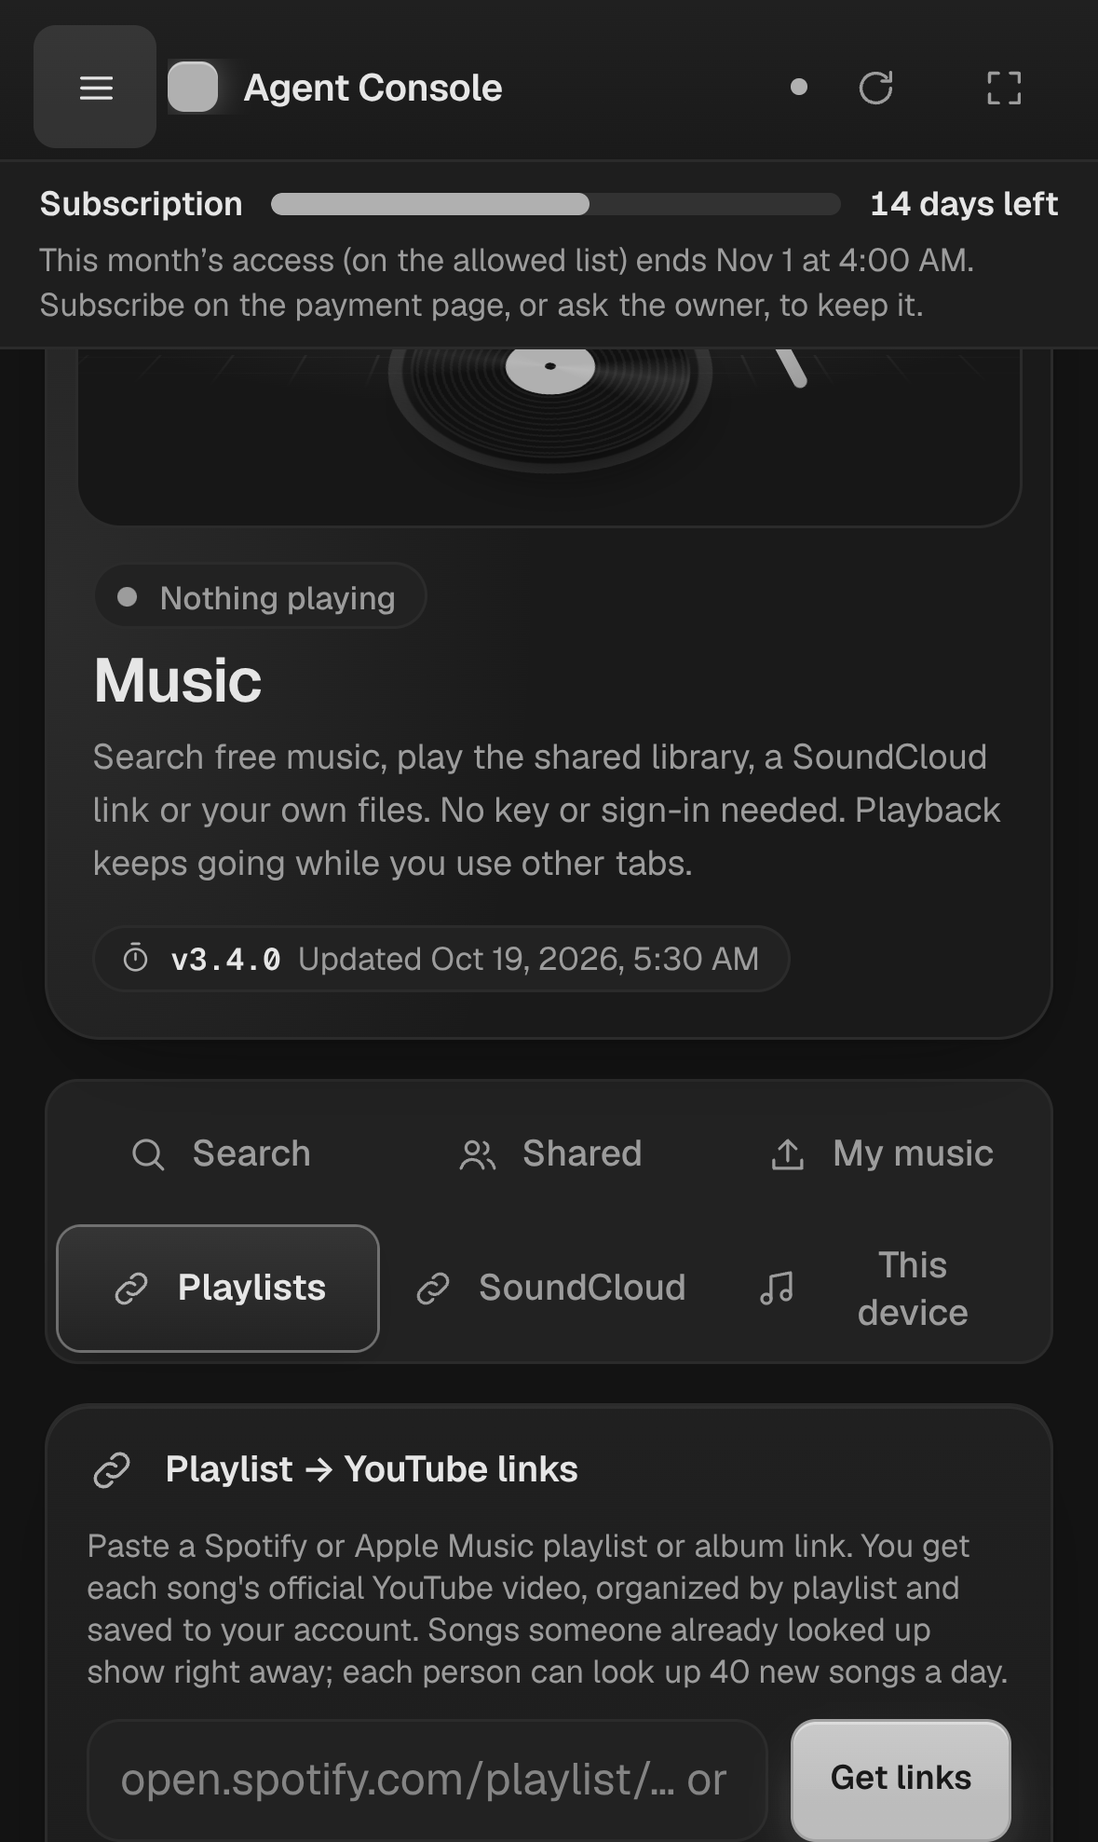
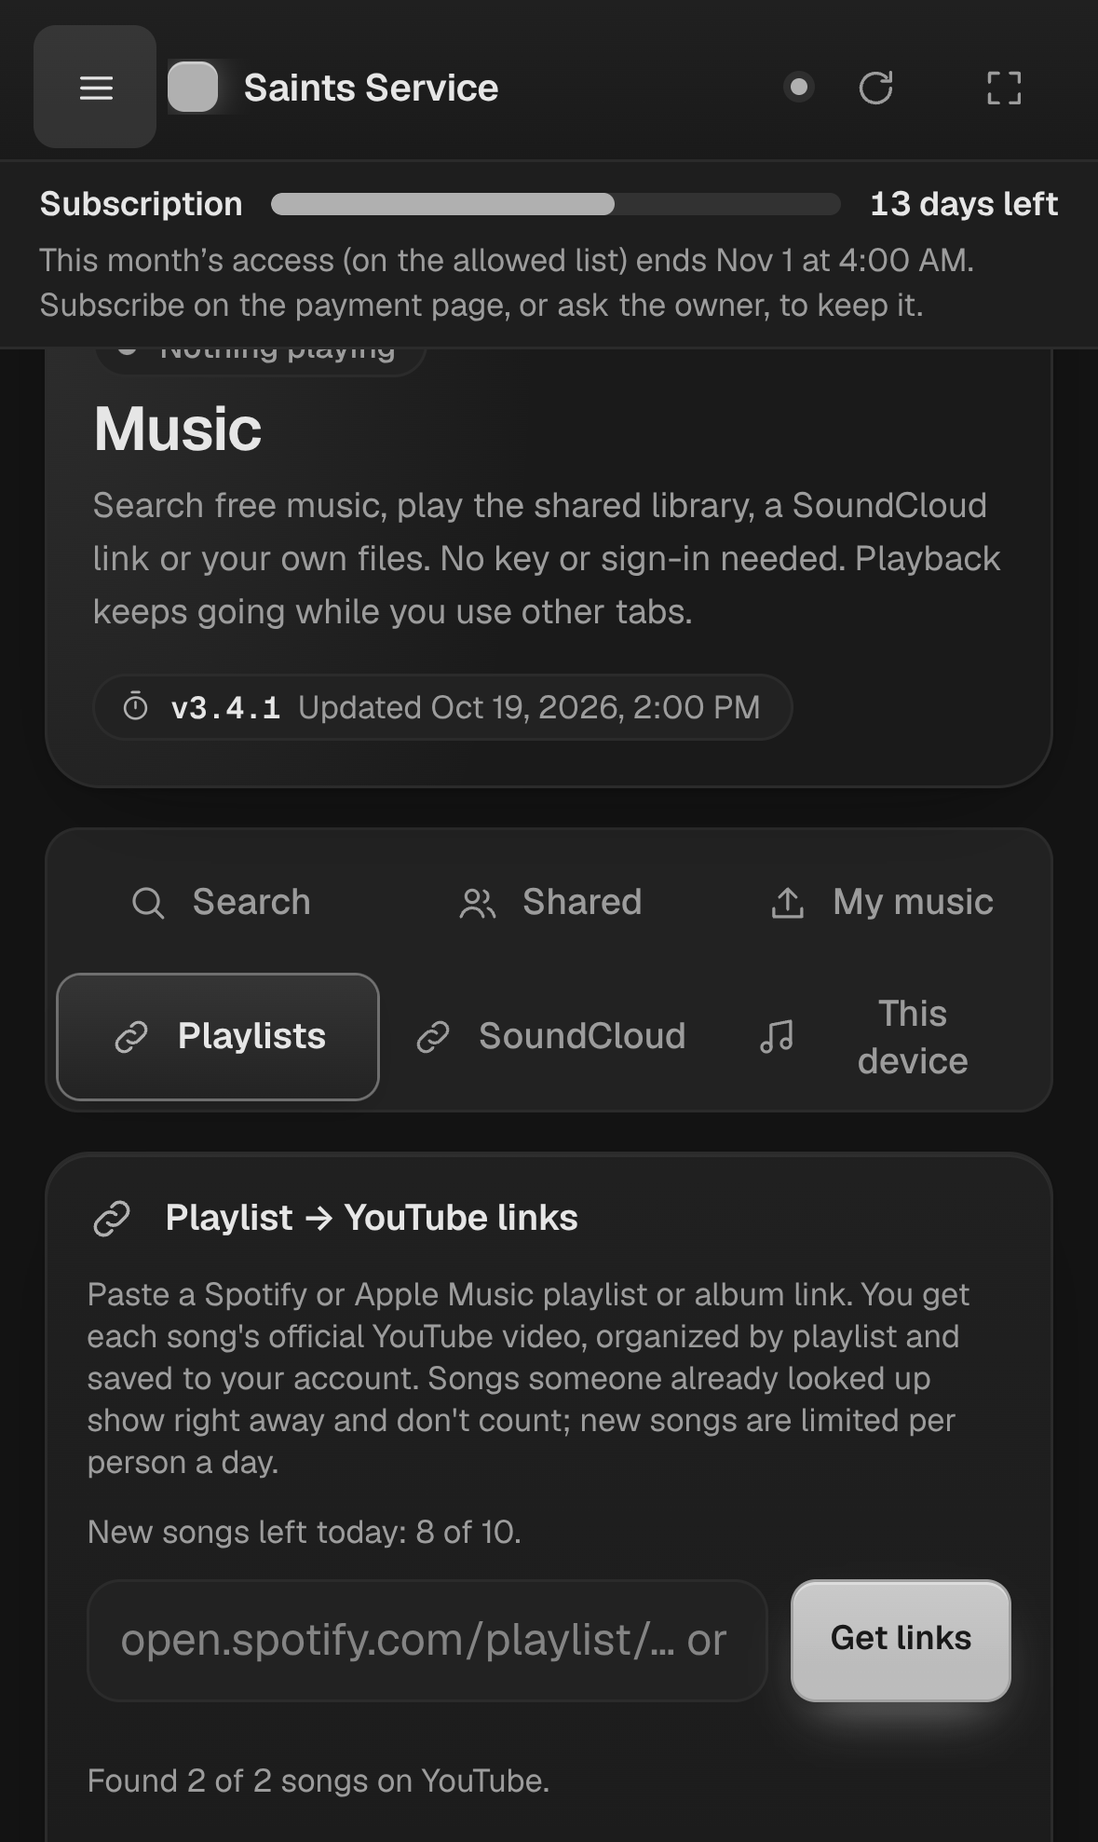
Playlists: 10 new songs a day per person (admins too), owner can change it
Everyone signed in keeps Playlists, admins included. New YouTube lookups
are limited to 10 a day per person by default (only the owner is
unlimited); songs someone already looked up stay free. The Music card
shows "New songs left today", and Admin -> Moderation -> Playlists limit
lets the owner change the number.

Claude-Session: https://claude.ai/code/session_01NctB9gYwwtoWGB2Q6rMk3L

diff --git a/script.js b/script.js
@@ -820,7 +820,10 @@ function modelSupportsReasoning(id) { return REASONING_MODELS.has((id || '').tri
     { at: '2026-10-19T08:30:00-04:00', commit: '', title: 'No way in without the server', parts: {
       console: ['fix', 'Signing in or creating an account (planet icon) is refused when the server can’t be reached, and a saved sign-in only comes back after the server checks it, so blocking the server or faking browser data can’t open the console'] } },
     { at: '2026-10-19T09:00:00-04:00', commit: '', title: 'Fold the top card', parts: {
-      console: ['feature', 'Every tab’s top card (Ask AI, Music, Chat…) has an arrow to fold it into a thin bar with just its title and buttons, so answers get the room; each tab remembers it'] } }
+      console: ['feature', 'Every tab’s top card (Ask AI, Music, Chat…) has an arrow to fold it into a thin bar with just its title and buttons, so answers get the room; each tab remembers it'] } },
+    { at: '2026-10-19T10:00:00-04:00', commit: '', title: 'Playlists: 10 new songs a day per person', parts: {
+      music: ['change', 'Playlists stay open to everyone (admins too); each person can look up 10 new songs a day (songs someone already found are free), with a “New songs left today” count'],
+      admin: ['feature', 'Moderation → Playlists limit (owner): set how many new songs each person can look up a day'] } }
   ];
   const PART_NAMES = {
     console: 'Console shell', selection: 'Selection assistant', welcome: 'Welcome', scan: 'Page Insights', ask: 'Ask AI', chat: 'Chat',
@@ -3672,7 +3675,8 @@ function modelSupportsReasoning(id) { return REASONING_MODELS.has((id || '').tri
           </section>
           <section class="gpa-card gpx-card gpx-src-panel" data-src-panel="lists">
             <div class="gpx-card-head">${GPS_ICONS.link}<div class="gpa-card-title">Playlist → YouTube links</div></div>
-            <p class="gpa-sub">Paste a Spotify or Apple Music playlist or album link. You get each song's official YouTube video, organized by playlist and saved to your account. Songs someone already looked up show right away; each person can look up 40 new songs a day.</p>
+            <p class="gpa-sub">Paste a Spotify or Apple Music playlist or album link. You get each song's official YouTube video, organized by playlist and saved to your account. Songs someone already looked up show right away and don't count; new songs are limited per person a day.</p>
+            <p id="gpa-lists-quota" class="gpa-sub gpa-lists-quota" role="status" hidden></p>
             <div class="gpa-row gpx-composer">
               <input id="gpa-lists-url" class="gpa-input" placeholder="open.spotify.com/playlist/… or music.apple.com/…" aria-label="Spotify or Apple Music playlist link" autocomplete="off" />
               <button id="gpa-lists-go" class="gpa-btn primary" type="button">Get links</button>
@@ -11318,8 +11322,14 @@ function modelSupportsReasoning(id) { return REASONING_MODELS.has((id || '').tri
   const lists = {
     btn: panel.querySelector('.gpx-src[data-src="lists"]'), url: panel.querySelector('#gpa-lists-url'), go: panel.querySelector('#gpa-lists-go'),
     status: panel.querySelector('#gpa-lists-status'), keyBox: panel.querySelector('#gpa-lists-key'), view: panel.querySelector('#gpa-lists-view'),
-    saved: panel.querySelector('#gpa-lists-saved'), player: panel.querySelector('#gpa-lists-player'), open: null, finding: false
+    saved: panel.querySelector('#gpa-lists-saved'), player: panel.querySelector('#gpa-lists-player'), quota: panel.querySelector('#gpa-lists-quota'), open: null, finding: false
   };
+  // "New songs left today: 7 of 10" (null from the Worker: no limit, the owner).
+  function showSongsLeft(songs) {
+    if (!lists.quota || songs === undefined) return;
+    lists.quota.hidden = false;
+    lists.quota.textContent = songs ? 'New songs left today: ' + songs.left + ' of ' + songs.perDay + '.' : 'No daily limit for you (owner).';
+  }
   const SERVICE_NAME = { spotify: 'Spotify', apple: 'Apple Music' };
   // Everyone signed in (owner's call), in the app or on the website.
   const listsStaff = () => !!sessionToken() || !!admGet(ADMIN_KEYS.TELE_TOKEN) || !!admGet(ADMIN_KEYS.OWNER_CODE);
@@ -11431,6 +11441,7 @@ function modelSupportsReasoning(id) { return REASONING_MODELS.has((id || '').tri
     try {
       const d = await listsCall('/music/lists');
       lists.keyBox.hidden = !!d.canFind || !d.lists.some((l) => l.pending);
+      showSongsLeft(d.songs);
       renderSaved(d.lists);
       if (!lists.open && !d.lists.length) lists.status.textContent = 'Paste a link to get started.';
     } catch (e) { lists.status.textContent = e.message; }
@@ -11441,6 +11452,7 @@ function modelSupportsReasoning(id) { return REASONING_MODELS.has((id || '').tri
     try {
       for (let guard = 0; guard < 60; guard++) {
         const d = await listsCall('/music/lists/find', { id });
+        showSongsLeft(d.songs);
         if (d.list && lists.open && lists.open.id === id) renderList(d.list);
         if (d.needKey) { lists.keyBox.hidden = false; lists.status.textContent = 'Got ' + d.list.count + ' songs. Each has a YouTube search link until the YouTube key is added on the Worker.'; break; }
         if (d.error) { lists.status.textContent = d.error; break; }
@@ -22318,6 +22330,8 @@ function modelSupportsReasoning(id) { return REASONING_MODELS.has((id || '').tri
             + `<div class="gac-allow-row"><span>🧠 Daily trivia at 12 PM (first correct answer wins a point)</span><button class="gps-switch${!d.fun || d.fun.trivia ? ' primary' : ''}" data-fun="trivia" type="button" aria-pressed="${!d.fun || d.fun.trivia}" aria-label="Daily trivia">Daily trivia</button></div>`
             + `<div class="gac-allow-row"><span>🏆 Announce new game records</span><button class="gps-switch${!d.fun || d.fun.shoutouts ? ' primary' : ''}" data-fun="shoutouts" type="button" aria-pressed="${!d.fun || d.fun.shoutouts}" aria-label="Announce new game records">Announce new game records</button></div>`
             + `<div class="gac-actions"><button class="gps-btn" id="gac-trivia-now" type="button">Ask a trivia question now</button></div>`, 'sparkle', 'gac-fun-card') : '')
+          + (can('system.manage') ? card('Playlists limit', `<p class="gps-hint">Music → Playlists is open to everyone signed in. Each new song costs a lookup on your YouTube key, so each person (admins too) gets this many new songs a day; songs someone already looked up are free. You have no limit.</p>`
+            + `<div class="gac-allow-row"><label>New songs per person a day <input id="gac-lists-songs" class="gpa-input" type="number" inputmode="numeric" min="0" max="500" step="1" value="${Number(d.listsDailySongs) >= 0 ? Number(d.listsDailySongs) : 10}" aria-label="New songs per person a day"></label><button class="gps-btn" id="gac-lists-save" type="button">Save</button></div>`, 'link', 'gac-lists-card') : '')
           + (can('security.view') ? '' : freeCard())
           + `<div id="gac-legacy-moderation"></div>`;
         b.querySelectorAll('.gac-report blockquote').forEach((q, i) => { q.textContent = list[i].msgText; });
@@ -22338,6 +22352,14 @@ function modelSupportsReasoning(id) { return REASONING_MODELS.has((id || '').tri
             sw.classList.toggle('primary', fun[sw.dataset.fun]); sw.setAttribute('aria-pressed', String(fun[sw.dataset.fun]));
             showToast((sw.dataset.fun === 'trivia' ? 'Daily trivia ' : 'Game record posts ') + (fun[sw.dataset.fun] ? 'on.' : 'off.'));
           } catch (err) { showToast(err.message, { type: 'danger' }); }
+        });
+        const listsCard = b.querySelector('#gac-lists-card');
+        if (listsCard) listsCard.querySelector('#gac-lists-save').addEventListener('click', async () => {
+          const n = Number(listsCard.querySelector('#gac-lists-songs').value);
+          try {
+            await api('/admin/config', { method: 'POST', body: { listsDailySongs: n } });
+            showToast('Playlists: ' + n + ' new song' + (n === 1 ? '' : 's') + ' per person a day.');
+          } catch (e) { showToast(e.message, { type: 'danger' }); }
         });
         const quietCard = b.querySelector('#gac-quiet-card');
         if (quietCard) {

diff --git a/worker.js b/worker.js
@@ -449,9 +449,12 @@ const adminLink = (sec, params) => appLink('admin', { sec, ...(params || {}) });
 const SUB_PERIODS = { '1w': { days: 7 }, '2w': { days: 14 }, '1m': { months: 1 }, '3m': { months: 3 }, '6m': { months: 6 }, '12m': { months: 12 } };
 const SUB_PERIOD_LABEL = { '1w': '1 week', '2w': '2 weeks', '1m': '1 month', '3m': '3 months', '6m': '6 months', '12m': '1 year' };
 const SUB_REMIND_MS = 3 * 24 * 3600 * 1000;
-// Playlists for everyone: per person a day (the owner and admins: 30 imports, no lookup cap).
+// Playlists for everyone: per person a day, 10 playlist imports (staff 30)
+// and LISTS_DAILY_SONGS new song lookups (admins included; the owner can
+// change it, config.listsDailySongs; the owner has no lookup cap).
 const LISTS_USER_IMPORTS = 10;
-const LISTS_USER_SEARCHES = 40;
+const LISTS_DAILY_SONGS = 10;
+const listsSongCap = (cfg) => (Number.isInteger(cfg && cfg.listsDailySongs) ? cfg.listsDailySongs : LISTS_DAILY_SONGS);
 // New subscribers' school email: their 6-digit student number at this domain.
 const SCHOOL_ID_RE = /^\d{6}$/;
 // Names with the admin role (for alerts that go to the owner and admins).
@@ -3413,6 +3416,12 @@ async function handleRequest(req, env, ctx, operationReserved = false) {
         for (const u of back) { const s = cfg.subscriptions && cfg.subscriptions[u]; if (s && s.auto && (s.ended || s.expiresAt <= Date.now())) delete cfg.subscriptions[u]; }
         await autoSubscribeListed(env, cfg);
       }
+      // Playlists: new song lookups per person a day (YouTube key quota).
+      if ('listsDailySongs' in body) {
+        const n = Number(body.listsDailySongs);
+        if (!Number.isInteger(n) || n < 0 || n > 500) return json({ error: 'Pick a number of songs from 0 to 500.' }, 400);
+        cfg.listsDailySongs = n;
+      }
       if ('monthlyQuota' in body) cfg.monthlyQuota = Math.max(0, parseInt(body.monthlyQuota, 10) || 0);
       if ('rpm' in body) cfg.rpm = Math.max(0, parseInt(body.rpm, 10) || 0);
       if ('requireSessions' in body) cfg.requireSessions = !!body.requireSessions;
@@ -3996,18 +4005,23 @@ async function handleRequest(req, env, ctx, operationReserved = false) {
         // The YouTube key is the Worker secret YOUTUBE_API_KEY: it never
         // leaves the Worker and is only used to look up a song nobody has
         // looked up before. Those new lookups are limited per person a day
-        // (LISTS_USER_SEARCHES) except for the owner and admins, so one
-        // person can't use up the key's daily quota for everyone.
+        // (listsSongCap, 10 unless the owner changes it), admins included;
+        // only the owner is unlimited, so nobody runs up the key's quota.
         if (url.pathname.startsWith('/music/lists')) {
           const boss = await staff();
+          const unlimited = !!boss && String(boss).toLowerCase() === OWNER;
+          const songCap = listsSongCap(cfg);
+          const sk = 'ytlists-search:' + dayKey() + ':';
           const me = String(listener || '').trim();
           const who = boss || (who0.verified && me && me.toLowerCase() !== 'anonymous' ? me : '');
           if (!who) return json({ ok: false, signIn: true, error: 'Sign in to use Playlists.' }, 401);
           if (!kv) return json({ ok: false, error: 'storage not configured' }, 503);
           const lists = await readLists(kv, who);
           const ytKey = String((env && env.YOUTUBE_API_KEY) || '').trim();
+          // New song lookups left today (null: no limit, the owner).
+          const songsInfo = async (usedNow) => (unlimited ? null : { perDay: songCap, left: Math.max(0, songCap - (usedNow !== undefined ? usedNow : (parseInt(await kv.get(sk + String(who).toLowerCase()), 10) || 0))) });
           if (url.pathname === '/music/lists' && req.method === 'GET') {
-            return json({ ok: true, lists: lists.map(listSummary), canFind: !!ytKey });
+            return json({ ok: true, lists: lists.map(listSummary), canFind: !!ytKey, songs: await songsInfo() });
           }
           if (url.pathname === '/music/lists/one' && req.method === 'GET') {
             const l = lists.find((x) => x.id === url.searchParams.get('id'));
@@ -4034,10 +4048,10 @@ async function handleRequest(req, env, ctx, operationReserved = false) {
             // (ytm:<song>) and cost no YouTube search; only new songs are
             // searched, a few per request (the app keeps asking until done).
             let error = '', quota = false, searched = 0, changed = 0, scanned = 0, needKey = false, capped = false;
-            // New lookups left today for this person (unlimited for the owner and admins).
-            const sk = 'ytlists-search:' + dayKey() + ':' + String(who).toLowerCase();
-            const used = boss ? 0 : parseInt(await kv.get(sk), 10) || 0;
-            const left = boss ? Infinity : Math.max(0, LISTS_USER_SEARCHES - used);
+            // New lookups left today for this person (no limit for the owner).
+            const sku = sk + String(who).toLowerCase();
+            const used = unlimited ? 0 : parseInt(await kv.get(sku), 10) || 0;
+            const left = unlimited ? Infinity : Math.max(0, songCap - used);
             for (const t of l.tracks) {
               if (searched >= MATCH_BATCH || scanned >= MATCH_SCAN) break;
               if (t.m !== undefined) continue;
@@ -4054,17 +4068,18 @@ async function handleRequest(req, env, ctx, operationReserved = false) {
               } catch (e) { error = e.message; quota = !!e.quota || !!e.badKey; break; }
             }
             if (changed) await writeLists(kv, who, lists);
-            if (!boss && searched) await kv.put(sk, String(used + searched), { expirationTtl: 2 * 24 * 3600 });
+            if (!unlimited && searched) await kv.put(sku, String(used + searched), { expirationTtl: 2 * 24 * 3600 });
+            const songs = await songsInfo(used + searched);
             if (capped && !error) {
               const pub = publicList(l);
-              return json({ ok: false, capped: true, stop: true, error: 'That’s ' + LISTS_USER_SEARCHES + ' new song lookups today. The rest are looked up tomorrow (songs someone already found show right away).', list: pub, more: false, searched });
+              return json({ ok: false, capped: true, stop: true, error: 'That’s your ' + songCap + ' new song' + (songCap === 1 ? '' : 's') + ' for today. The rest are looked up tomorrow (songs someone already found show right away).', list: pub, more: false, searched, songs });
             }
             if (needKey && !error) {
               const pub = publicList(l);
-              return json({ ok: false, needKey: true, error: 'Finding videos needs the YouTube key on the Worker (YOUTUBE_API_KEY).', list: pub, more: false, searched }, 200);
+              return json({ ok: false, needKey: true, error: 'Finding videos needs the YouTube key on the Worker (YOUTUBE_API_KEY).', list: pub, more: false, searched, songs }, 200);
             }
             const pub = publicList(l);
-            return json({ ok: !error, error: error || undefined, stop: quota, list: pub, more: !error && pub.pending > 0, searched });
+            return json({ ok: !error, error: error || undefined, stop: quota, list: pub, more: !error && pub.pending > 0, searched, songs });
           }
           if (url.pathname === '/music/lists/retry' && req.method === 'POST') {
             // Look a song up again (e.g. it found the wrong video).
@@ -5065,7 +5080,7 @@ async function handleRequest(req, env, ctx, operationReserved = false) {
         // Moderation also shows the chat quiet-hours setting (owner changes it).
         const mcfg = await getConfig(kv);
         const cq = mcfg.chatQuiet || { on: false, start: 23, end: 6 };
-        return json({ ok: true, reports: reports.sort((a, b) => b.createdAt - a.createdAt), chatQuiet: cq, fun: { trivia: funOn(mcfg, 'trivia'), shoutouts: funOn(mcfg, 'shoutouts') } });
+        return json({ ok: true, reports: reports.sort((a, b) => b.createdAt - a.createdAt), chatQuiet: cq, fun: { trivia: funOn(mcfg, 'trivia'), shoutouts: funOn(mcfg, 'shoutouts') }, listsDailySongs: listsSongCap(mcfg) });
       }
 
       if (url.pathname === '/admin/reports/action') {

diff --git a/docs/screenshots/README.md b/docs/screenshots/README.md
@@ -11,7 +11,7 @@ new subscriber and then the owner would see things.
 | [0-subscriber-walkthrough](#0-what-a-new-subscriber-sees-step-by-step) | **Start here:** every screen a new subscriber sees after paying, in order |
 | [1-new-subscriber](#1-a-new-subscriber-after-paying-close-ups) | Making the PIN, the school email box, the confirmation, signed in |
 | [2-admin-security](#2-admin--security-owner-admins-moderators) | New subscribers card, automatic month, Recent events folding, Free access |
-| [3-playlists](#3-playlists-everyone-signed-in) | Spotify / Apple Music playlist → YouTube links, for everyone |
+| [3-playlists](#3-playlists-everyone-signed-in) | Spotify / Apple Music playlist → YouTube links, for everyone; **new:** 10 new songs a day each, your limit card |
 | [4-youtube-to-mp3](#4-youtube-to-mp3-owner) | The MP3 converter in Music → My music |
 | [5-subscribe-page](#5-subscribe-page) | The payment page, the $6 contribution box, and **new:** your $1 test (owner only) |
 | [9-fold-top-card](#9-fold-the-top-card) | **New:** the Ask AI card (and every tab's top card) folds to a thin bar |
@@ -120,6 +120,13 @@ song's YouTube link; and Playlists in the console on a website.
 <img src="3-playlists/1-regular-user.png" width="320" alt="Regular user's Playlists"> <img src="3-playlists/2-links-found.png" width="320" alt="Spotify playlist with YouTube links">
 
 <img src="3-playlists/3-on-a-website.png" width="640" alt="Playlists in the console on a website">
+
+**New: 10 new songs a day per person** (admins too; only you have no limit).
+The card shows how many are left ("New songs left today: 8 of 10", in the
+first picture above). Songs someone already looked up are free. You change
+the number in **Admin → Moderation → Playlists limit** (shown set to 15):
+
+<img src="3-playlists/4-owner-limit-card.png" width="640" alt="Playlists limit card: new songs per person a day, Save">
 
 ---
 

diff --git a/HANDOFF.md b/HANDOFF.md
@@ -13,6 +13,17 @@ list (rounds 1–3) was finished and pushed.
 ### Status right now
 - **Nothing is half-done.** All work from this session is on `main` and
   deployed (pushing to `main` deploys; see below). The last commit:
+  **Playlists: 10 new songs a day** (owner: "admins also have access… everyone
+  has access to it but set a limited quota by default of 10 songs per user so
+  it doesn't run up my youtube api key"): admins already had access; now
+  `LISTS_DAILY_SONGS = 10` new lookups a day per person, admins included
+  (`unlimited` = only the owner: staff() returning OWNER). Owner-set
+  `config.listsDailySongs` (0–500, `/admin/config`, system.manage = owner)
+  via Admin → Moderation → Playlists limit (`#gac-lists-card`; value from
+  `/admin/reports`). `/music/lists` and `/find` return `songs: {perDay,
+  left}` (null for the owner); the card shows "New songs left today: X of
+  N" (`#gpa-lists-quota`). Imports stay 10 playlists/day (staff 30). Tests:
+  playlists.test.mjs, playlists.mjs (27), fun.mjs (20). Before that:
   **Owner $1 test contribution** (owner: "only me the owner (viztrrx) can
   contribute $1 so i can test out the subscribe page"): `nameStatus` returns
   `ownerTest: true` for OWNER (still never a subscription); the page shows
@@ -757,7 +768,8 @@ real client build is separate, see `eaglercraft/README.md`), Saints Command.
 
 | Commit | What |
 |---|---|
-| (this) | Owner-only $1 test contribution on the subscribe page |
+| (this) | Playlists: 10 new songs a day per person (admins too), owner-set |
+| `f11590c` | Owner-only $1 test contribution on the subscribe page |
 | `ccd4577` | Fold the top card (Ask AI and every tab) |
 | (earlier) | YouTube to MP3 (owner): real FFmpeg in the browser, verified MP3, Save to My music |
 | `5098fca`, `f748097` | Subscribe page: own PIN after paying, no paying twice, contributions note |

diff --git a/README.md b/README.md
@@ -109,9 +109,11 @@ The Music tab needs no YouTube key and no sign-in:
     song in another playlist or for anyone else costs nothing, and opening
     saved playlists never searches. A free key covers about 100 new songs a
     day for everyone together; the rest are found the next day. So one person
-    can't use it all up, each regular user gets **40 new song lookups a day**
-    (songs someone already found don't count); you and admins have no limit. Without the key every song gets a
-    YouTube search link.
+    can't use it all up, each person, **admins included**, gets **10 new
+    songs a day** (songs someone already found don't count), and the card
+    shows "New songs left today: 7 of 10". Only you have no limit. Change the
+    number in **Admin → Moderation → Playlists limit** (0–500; only you can).
+    Without the key every song gets a YouTube search link.
   - Spotify playlists are read from Spotify's public embed page, which shows
     the first 100 songs. For longer playlists, add `SPOTIFY_CLIENT_ID` and
     `SPOTIFY_CLIENT_SECRET` (a free app at developer.spotify.com) as Worker
